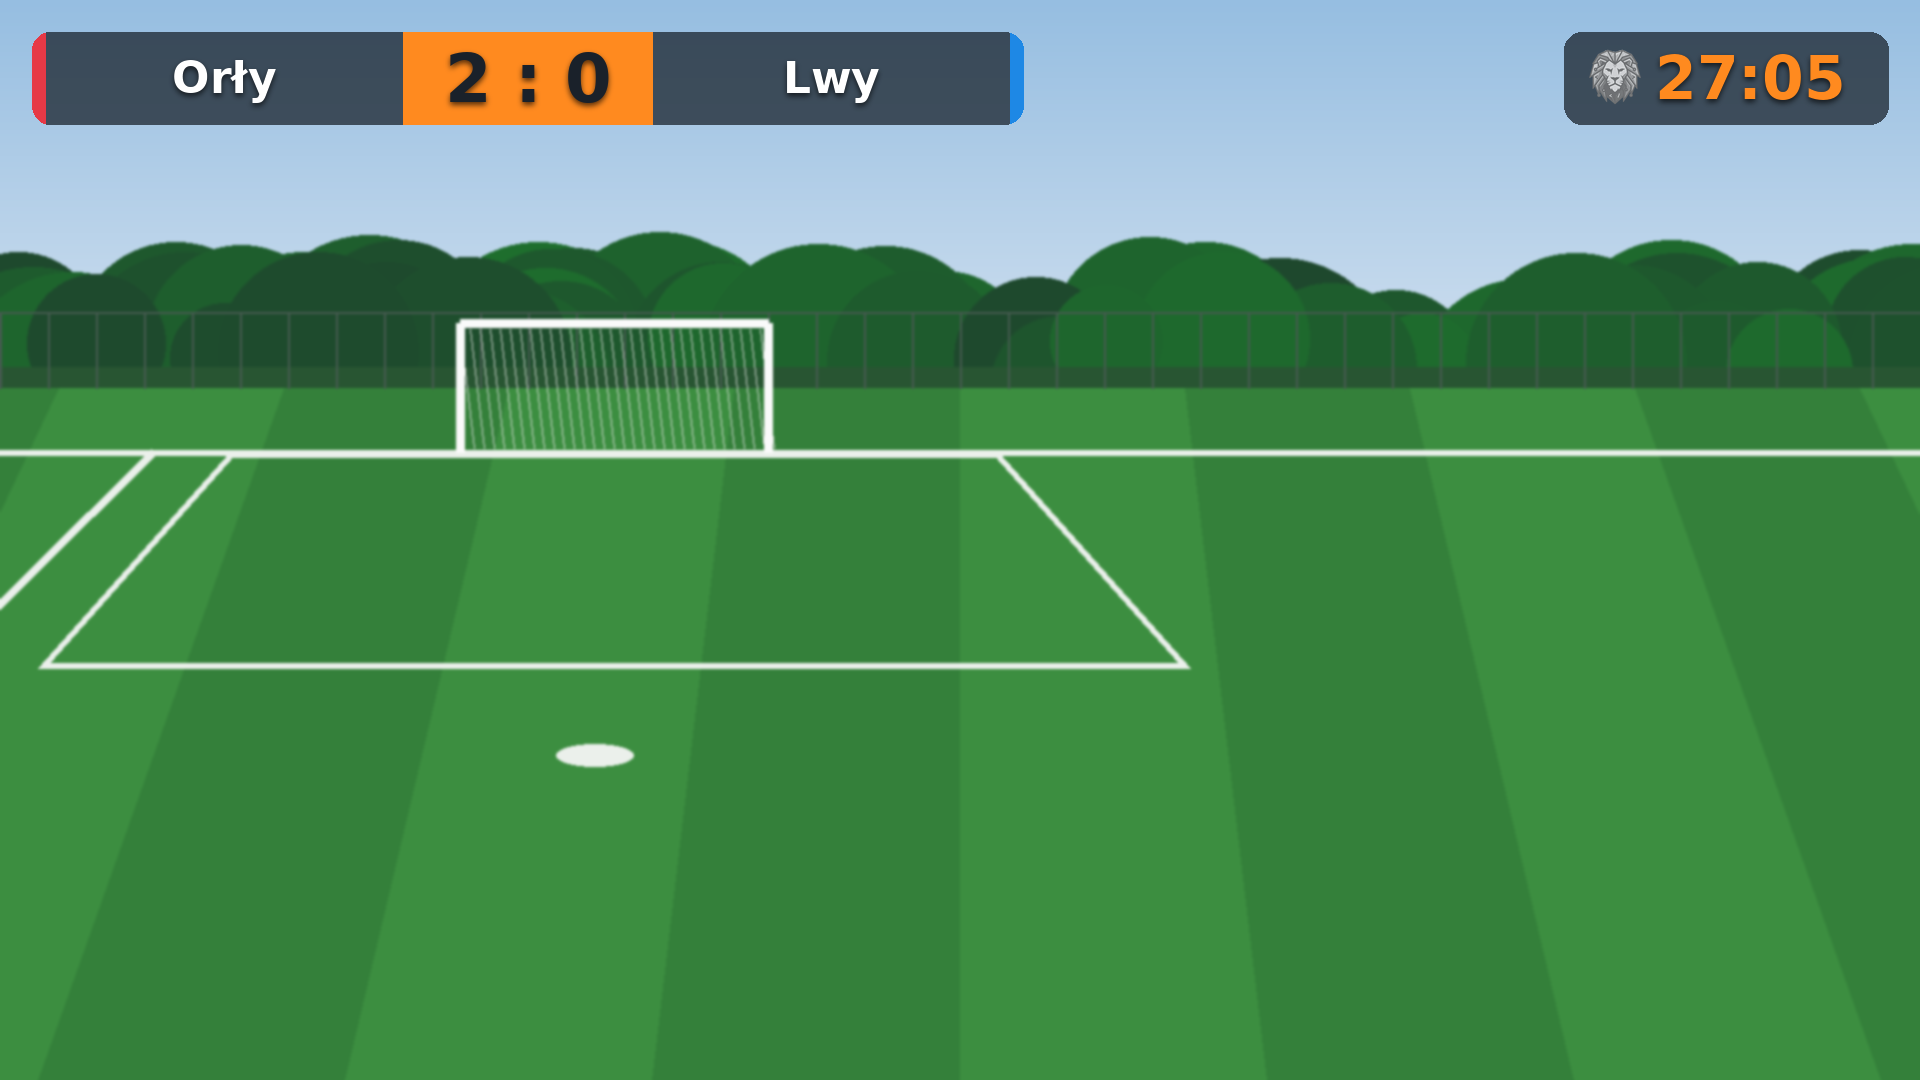
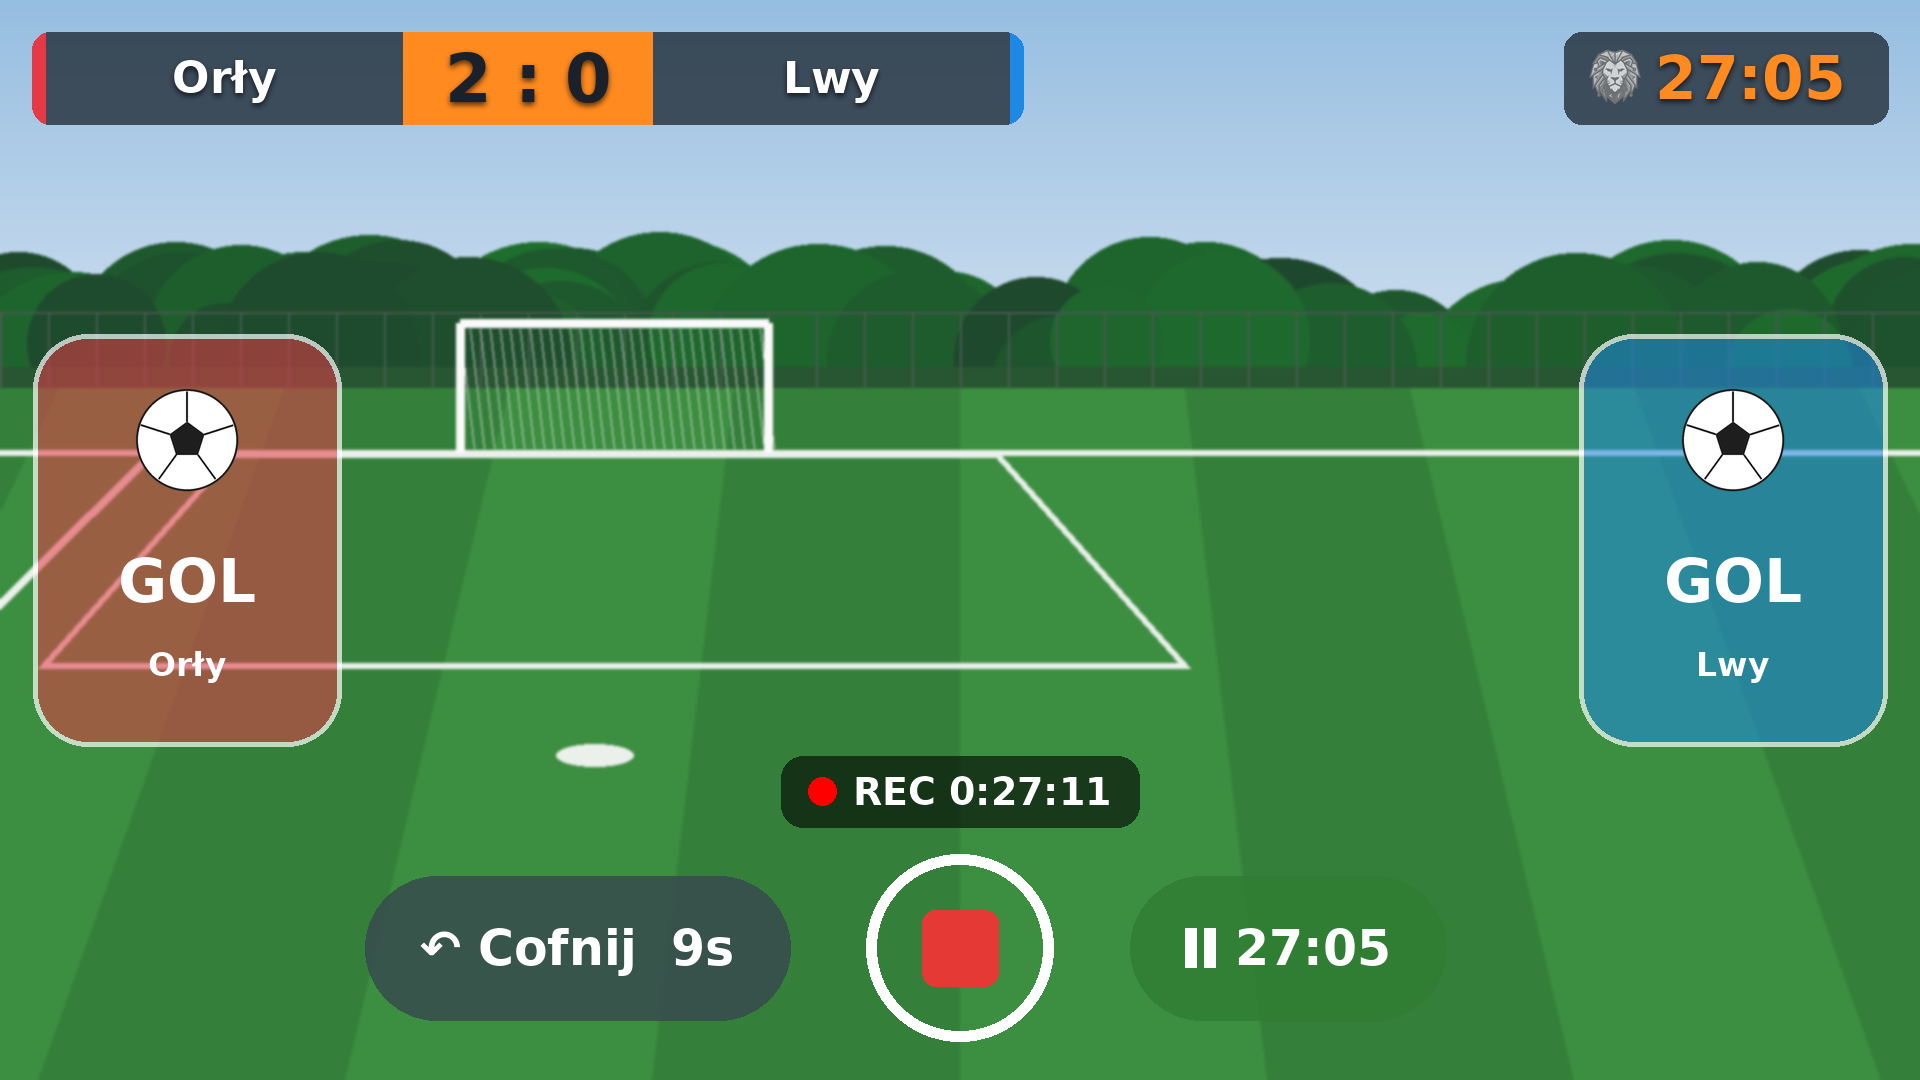
Mecz: zrzuty z przyciskami GOL, cofnij i zegarem

diff --git a/mecz/index.html b/mecz/index.html
@@ -40,9 +40,10 @@
       <div class="wrap">
         <h2>Zrzuty ekranu</h2>
         <div class="shots poziome">
-          <a href="../mecz/sklep/1-tablica.png" target="_blank" rel="noopener"><img src="../mecz/sklep/1-tablica.png" alt="Tablica wyniku w filmie" width="480" height="270" loading="lazy"></a>
-          <a href="../mecz/sklep/2-gol.png" target="_blank" rel="noopener"><img src="../mecz/sklep/2-gol.png" alt="Wynik miga po bramce" width="480" height="270" loading="lazy"></a>
-          <a href="../mecz/sklep/3-przerwa.png" target="_blank" rel="noopener"><img src="../mecz/sklep/3-przerwa.png" alt="Zatrzymany zegar w przerwie" width="480" height="270" loading="lazy"></a>
+          <a href="../mecz/sklep/1-nagrywanie.png?v=2" target="_blank" rel="noopener"><img src="../mecz/sklep/1-nagrywanie.png?v=2" alt="Nagrywanie z przyciskami GOL i zegarem" width="480" height="270" loading="lazy"></a>
+          <a href="../mecz/sklep/2-gol.png?v=2" target="_blank" rel="noopener"><img src="../mecz/sklep/2-gol.png?v=2" alt="Po bramce: wynik miga, można cofnąć" width="480" height="270" loading="lazy"></a>
+          <a href="../mecz/sklep/3-przerwa.png?v=2" target="_blank" rel="noopener"><img src="../mecz/sklep/3-przerwa.png?v=2" alt="Zatrzymany zegar w przerwie" width="480" height="270" loading="lazy"></a>
+          <a href="../mecz/sklep/4-gotowy-film.png?v=2" target="_blank" rel="noopener"><img src="../mecz/sklep/4-gotowy-film.png?v=2" alt="Gotowy film z tablicą" width="480" height="270" loading="lazy"></a>
         </div>
       </div>
     </section>

diff --git a/tools/aplikacje.py b/tools/aplikacje.py
@@ -47,8 +47,8 @@ APLIKACJE = [
         "slug": "mecz", "nazwa": "Mecz", "tag": "Dla rodziców i trenerów", "ikona": "ikona-mecz.png?v=2",
         "status": "sprawdzanie", "poziome": True,
         "zrzuty": zrzuty("mecz/sklep", [
-            ("1-tablica.png", "Tablica wyniku w filmie"), ("2-gol.png", "Wynik miga po bramce"),
-            ("3-przerwa.png", "Zatrzymany zegar w przerwie"),
+            ("1-nagrywanie.png", "Nagrywanie z przyciskami GOL i zegarem"), ("2-gol.png", "Po bramce: wynik miga, można cofnąć"),
+            ("3-przerwa.png", "Zatrzymany zegar w przerwie"), ("4-gotowy-film.png", "Gotowy film z tablicą"),
         ]),
         "krotko": "Nagrywanie meczów telefonem z tablicą wyniku i czasem gry od razu w filmie.",
         "wstep": "Nagrywasz mecz telefonem, a nazwy drużyn, wynik i czas gry są wypalane w filmie na żywo. Po meczu nie trzeba nic montować.",
